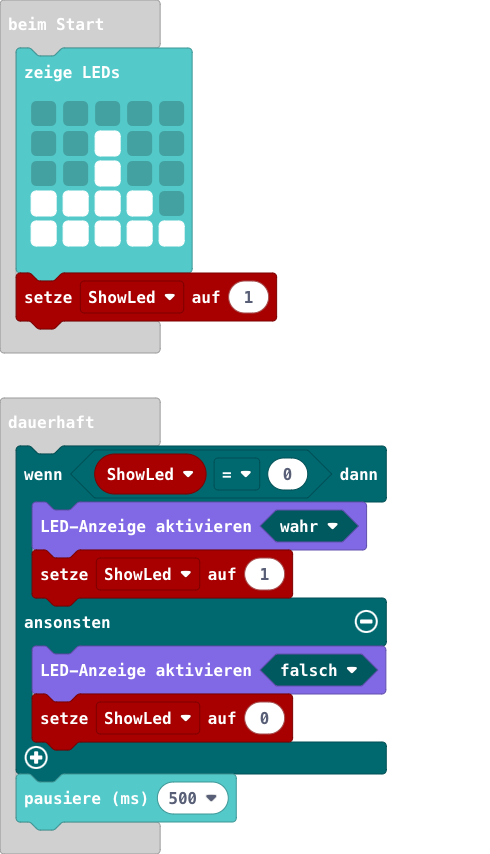
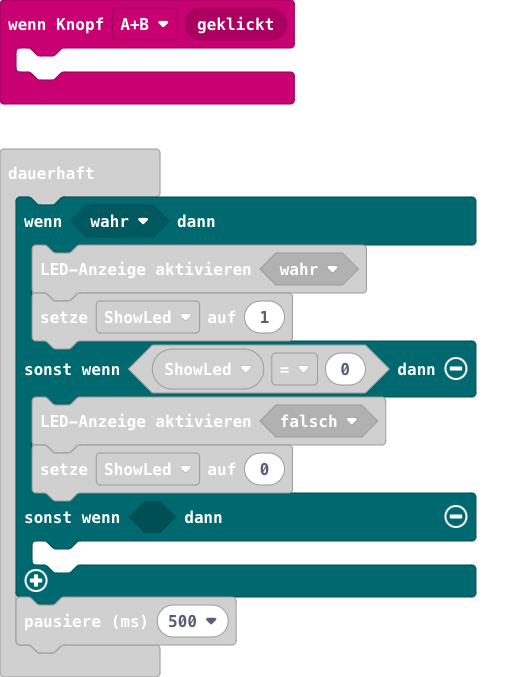
Aktualisiere main.blocks, main.ts

diff --git a/main.ts b/main.ts
@@ -1,3 +1,6 @@
+input.onButtonEvent(Button.AB, input.buttonEventClick(), function () {
+	
+})
 basic.showLeds(`
     . . . . .
     . . # . .
@@ -7,12 +10,14 @@ basic.showLeds(`
     `)
 let ShowLed = 1
 basic.forever(function () {
-    if (ShowLed == 0) {
+    if (true) {
         led.enable(true)
         ShowLed = 1
-    } else {
+    } else if (ShowLed == 0) {
         led.enable(false)
         ShowLed = 0
+    } else if (false) {
+    	
     }
     basic.pause(500)
 })
